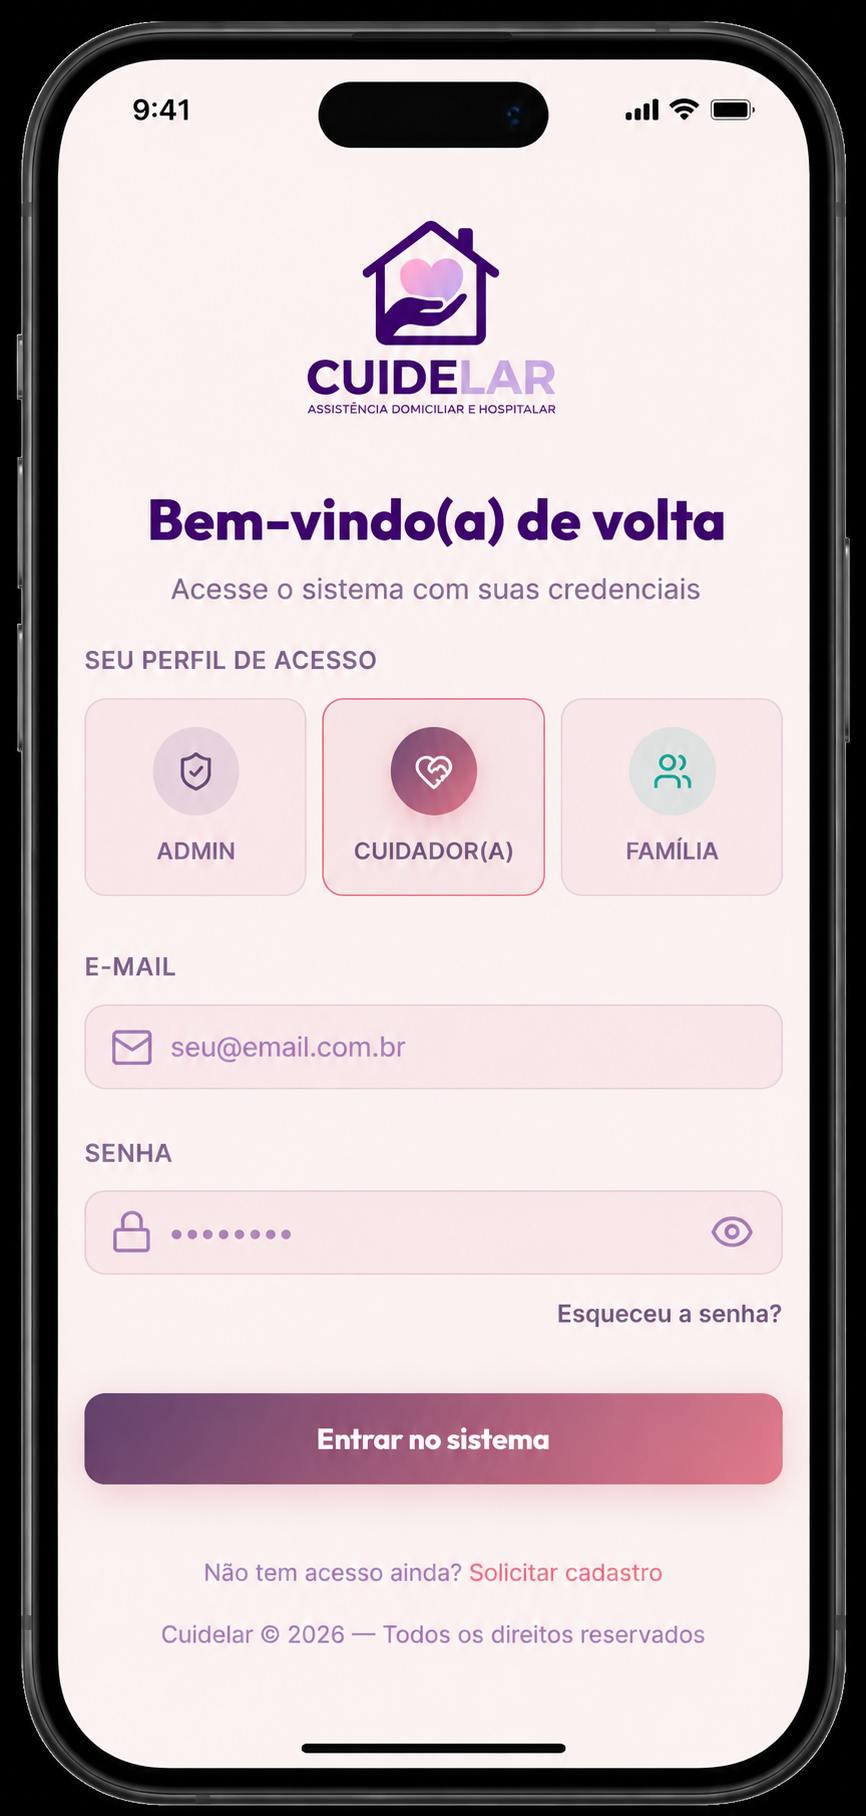
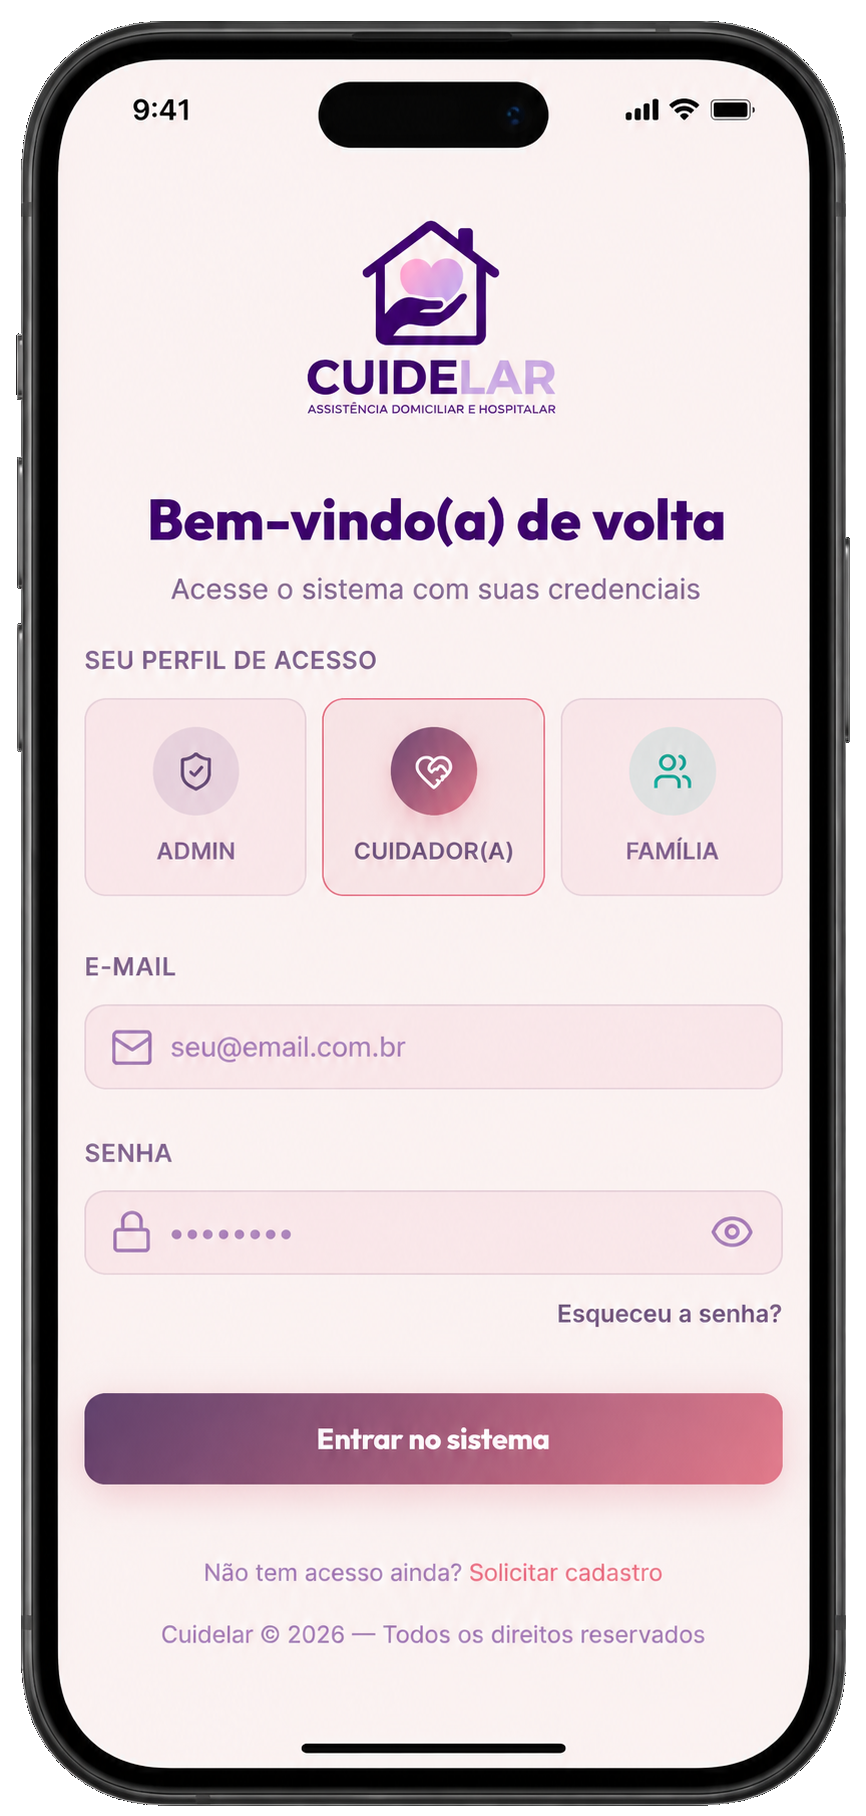
fix: remove fundo preto solido dos screenshots tornando-os PNGs com transparencia perfeita

Changed region(s): [[0.0, 0.0, 1.0, 1.0]]

diff --git a/apresentacao-familia.html b/apresentacao-familia.html
@@ -115,11 +115,9 @@
 
     /* ── BROWSER & PHONE FRAMES ──────────────── */
     .phone-mockup {
-      max-width: 240px;
+      max-width: 250px;
       margin: auto;
-      border-radius: 46px;
-      overflow: hidden;
-      filter: drop-shadow(0 20px 45px rgba(0,0,0,0.4));
+      filter: drop-shadow(0 20px 45px rgba(0,0,0,0.35));
       transition: all .3s cubic-bezier(.4,0,.2,1);
     }
     .phone-mockup:hover {
@@ -129,10 +127,9 @@
     .phone-mockup img {
       width: 100%;
       height: auto;
-      max-height: 480px;
+      max-height: 490px;
       object-fit: contain;
       display: block;
-      border-radius: 46px;
     }
 
     .bframe {
